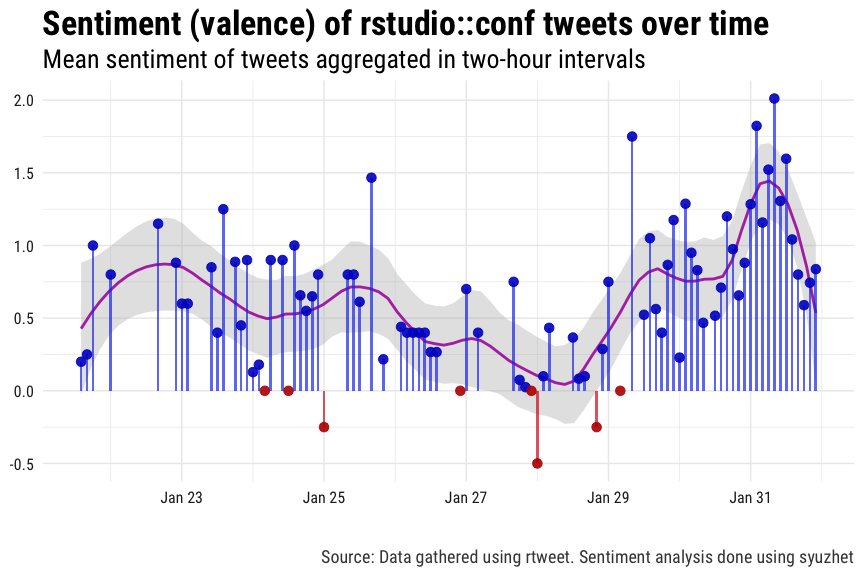
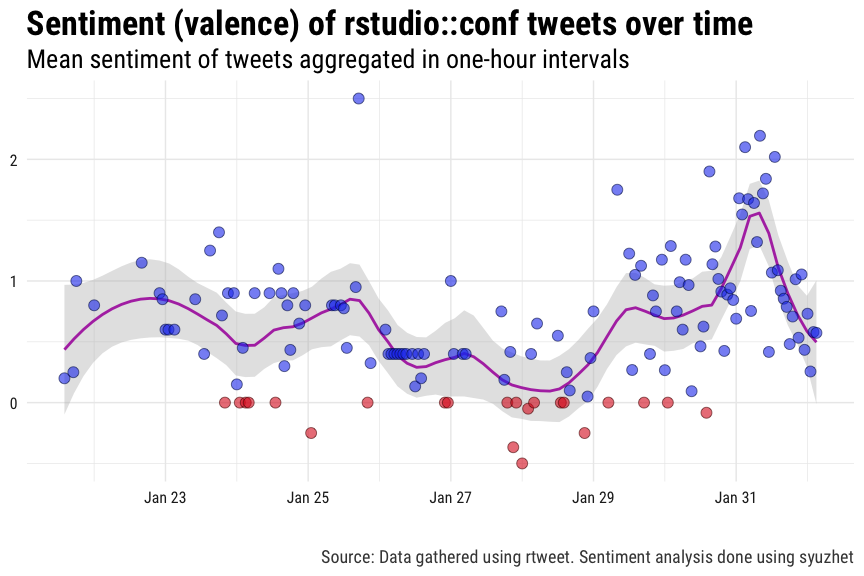
added some text cleaning funs and misc style edits to sentiment plot

diff --git a/README.md b/README.md
@@ -127,6 +127,8 @@ To explore the Twitter data, go ahead and load the [tidyverse](http://tidyverse.
 
 ``` r
 suppressPackageStartupMessages(library(tidyverse))
+## Warning: package 'tibble' was built under R version 3.4.3
+## Warning: package 'tidyr' was built under R version 3.4.3
 ```
 
 ### Tweet frequency over time
@@ -159,25 +161,35 @@ rt %>%
 Next, some sentiment analysis of the tweets so far.
 
 ``` r
+## clean up the text a bit (rm mentions and links)
+rt$text2 <- gsub(
+  "^RT:?\\s{0,}|#|@\\S+|https?[[:graph:]]", "", rt$text)
+## convert to lower case
+rt$text2 <- tolower(rt$text2)
+## trim extra white space
+rt$text2 <- gsub("^\\s{1,}|\\s{1,}$", "", rt$text2)
+rt$text2 <- gsub("\\s{2,}", " ", rt$text2)
+
 ## estimate pos/neg sentiment for each tweet
-rt$sentiment <- syuzhet::get_sentiment(rt$text, "syuzhet")
+rt$sentiment <- syuzhet::get_sentiment(rt$text2, "syuzhet")
 
 ## write function to round time into rounded var
 round_time <- function(x, sec) {
   as.POSIXct(hms::hms(as.numeric(x) %/% sec * sec))
 }
 
-## plot by specified time interval (2-hours)
+## plot by specified time interval (1-hours)
 rt %>%
-  mutate(time = round_time(created_at, 60 * 60 * 2)) %>%
+  mutate(time = round_time(created_at, 60 * 60)) %>%
   group_by(time) %>%
   summarise(sentiment = mean(sentiment, na.rm = TRUE)) %>%
-  mutate(valence = ifelse(sentiment > 0L, "Positive", "Negative")) %>%
+  mutate(
+    valence = ifelse(sentiment > 0L, "Positive", "Negative")) %>%
   ggplot(aes(x = time, y = sentiment)) +
-  geom_smooth(method = "loess", span = .25,
+  geom_smooth(method = "loess", span = .2,
     colour = "#aa11aadd", fill = "#bbbbbb11") +
-  geom_col(aes(fill = valence), alpha = .7, width = 3250) +
-  geom_point(aes(colour = valence), alpha = .9, size = 3) +
+  geom_point(aes(fill = valence, colour = valence), 
+    shape = 21, alpha = .6, size = 3.5) +
   theme_minimal(base_size = 15, base_family = "Roboto Condensed") +
   theme(legend.position = "none",
     axis.text = element_text(colour = "#222222"),
@@ -185,10 +197,10 @@ rt %>%
     plot.subtitle = element_text(size = rel(1.3)),
     plot.caption = element_text(colour = "#444444")) +
   scale_fill_manual(values = c(Positive = "#2244ee", Negative = "#dd2222")) +
-  scale_colour_manual(values = c(Positive = "#0022cc", Negative = "#bb0000")) +
+  scale_colour_manual(values = c(Positive = "#001155", Negative = "#550000")) +
   labs(x = NULL, y = NULL,
        title = "Sentiment (valence) of rstudio::conf tweets over time",
-       subtitle = "Mean sentiment of tweets aggregated in two-hour intervals",
+       subtitle = "Mean sentiment of tweets aggregated in one-hour intervals",
     caption = "\n\nSource: Data gathered using rtweet. Sentiment analysis done using syuzhet")
 ```
 
